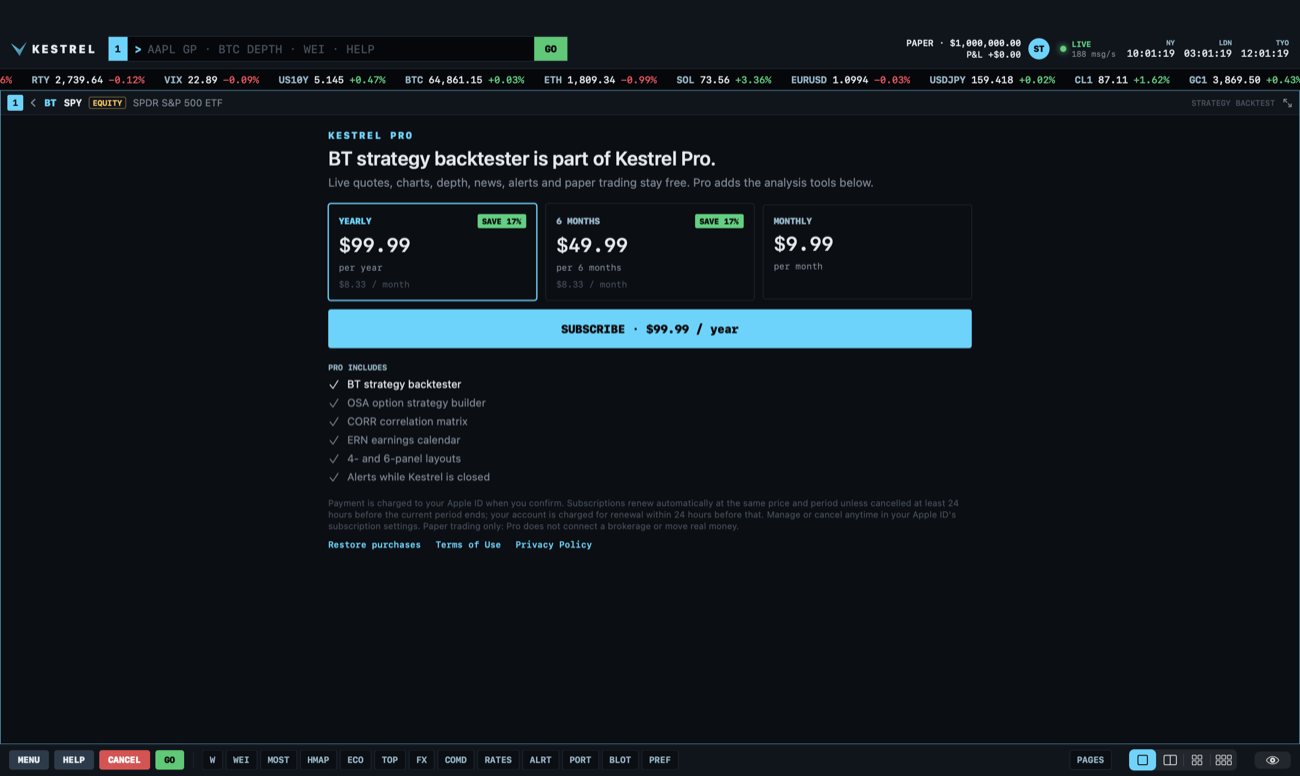
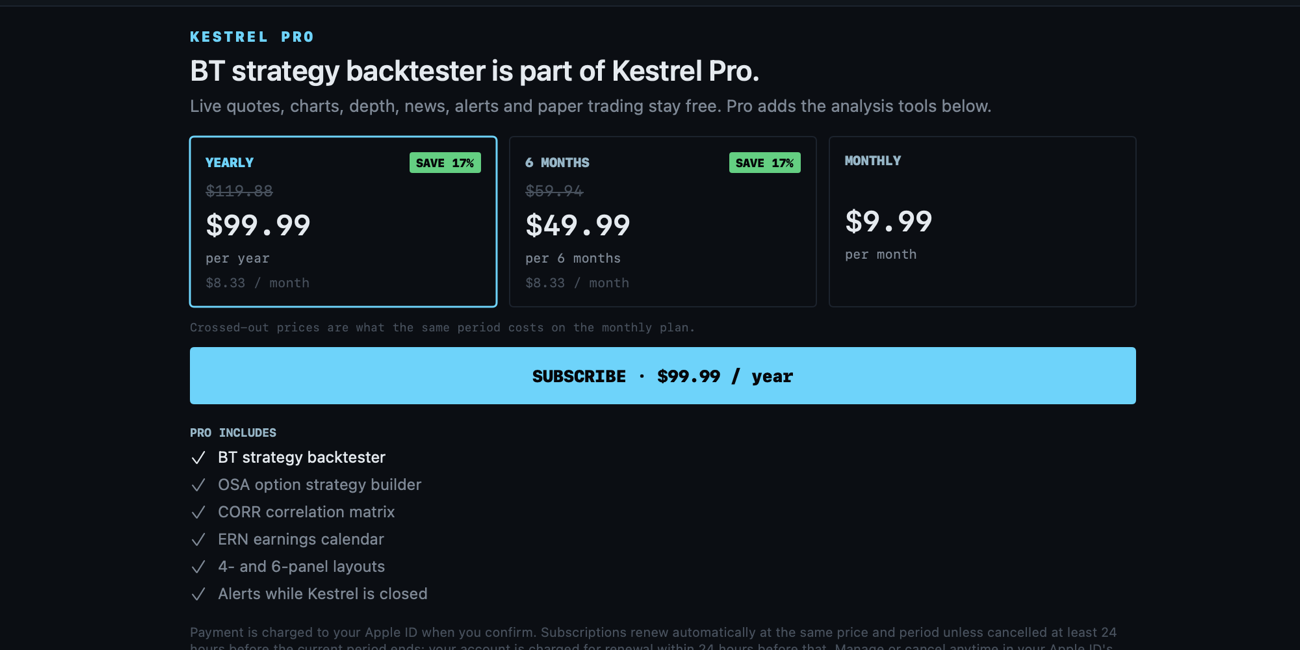
Show the plan prices as discounted from the monthly rate
6 months and yearly show a crossed-out reference price: what the same period
costs on the monthly plan ($59.94 and $119.88), never an invented "was"
price. Monthly has none. Equal-height plan cards and one note explaining the
reference.

Changed region(s): [[0.0, 0.0308, 1.0, 0.9231], [0.0, 0.9538, 1.0, 1.0]]

diff --git a/Kestrel/Views/Functions/PaywallView.swift b/Kestrel/Views/Functions/PaywallView.swift
@@ -51,9 +51,12 @@ struct PaywallView: View {
             if let e = store.loadError, store.products.isEmpty {
                 Text(e).font(.mono(11)).foregroundStyle(Theme.cancel)
             }
-            HStack(spacing: 10) {
+            HStack(alignment: .top, spacing: 10) {
                 ForEach(ProPlan.allCases.reversed(), id: \.self) { plan in planCard(plan, monthly: monthly) }
             }
+            .fixedSize(horizontal: false, vertical: true)   // equal-height cards
+            Text("Crossed-out prices are what the same period costs on the monthly plan.")
+                .font(.mono(9)).foregroundStyle(Theme.faint)
             Button {
                 Task { await store.purchase(selected, account: auth.current?.id) }
             } label: {
@@ -85,6 +88,13 @@ struct PaywallView: View {
                             .padding(.horizontal, 5).frame(height: 16).background(theme.up, in: .rect(cornerRadius: 2))
                     }
                 }
+                // Crossed-out price = the same period on the monthly plan (never an invented "was" price).
+                if let p, let m = monthly, let ref = plan.referencePrice(monthlyPrice: m) {
+                    Text(p.priceFormatStyle.format(ref)).font(.mono(12)).strikethrough().foregroundStyle(Theme.faint)
+                        .accessibilityLabel("\(p.priceFormatStyle.format(ref)) if paid monthly")
+                } else {
+                    Text(" ").font(.mono(12))
+                }
                 Text(p?.displayPrice ?? "—").font(.mono(22, .semibold)).foregroundStyle(Theme.text)
                 Text("per \(plan.periodLabel)").font(.mono(10)).foregroundStyle(Theme.dim)
                 if let p, plan != .monthly {
@@ -93,7 +103,7 @@ struct PaywallView: View {
                     Text(" ").font(.mono(10))
                 }
             }
-            .padding(12).frame(maxWidth: .infinity, alignment: .leading)
+            .padding(12).frame(maxWidth: .infinity, maxHeight: .infinity, alignment: .topLeading)
             .background(Theme.panel)
             .overlay(RoundedRectangle(cornerRadius: 3).stroke(on ? Theme.accent : Theme.rule, lineWidth: on ? 1.5 : 1))
             .contentShape(.rect)

diff --git a/KestrelCore/Sources/KestrelCore/Subscription.swift b/KestrelCore/Sources/KestrelCore/Subscription.swift
@@ -19,6 +19,12 @@ public enum ProPlan: String, CaseIterable, Sendable, Codable {
     /// Price per month, for comparing plans.
     public func perMonth(_ price: Decimal) -> Decimal { price / Decimal(months) }
 
+    /// The truthful "original" price shown crossed out: what the same span costs on the monthly
+    /// plan. nil for the monthly plan itself (there is no higher price it was discounted from).
+    public func referencePrice(monthlyPrice: Decimal) -> Decimal? {
+        self == .monthly || monthlyPrice <= 0 ? nil : monthlyPrice * Decimal(months)
+    }
+
     /// Saving against paying monthly for the same span (0.17 = 17%), or nil for the monthly plan.
     public func saving(price: Decimal, monthlyPrice: Decimal) -> Double? {
         guard self != .monthly, monthlyPrice > 0 else { return nil }

diff --git a/KestrelCore/Tests/KestrelCoreTests/KestrelCoreTests.swift b/KestrelCore/Tests/KestrelCoreTests/KestrelCoreTests.swift
@@ -1038,3 +1038,13 @@ private func Fmt(_ v: Double?) -> String { v.map { String(format: "%.1fB", $0 / 
         #expect(e == .pro(plan: .annual, expires: now.addingTimeInterval(300 * 86_400), willRenew: true))
     }
 }
+
+
+@Suite struct ReferencePriceTests {
+    @Test func crossedOutPriceIsTheMonthlyEquivalent() {
+        let m = Decimal(string: "9.99")!
+        #expect(ProPlan.halfYear.referencePrice(monthlyPrice: m) == Decimal(string: "59.94")!)
+        #expect(ProPlan.annual.referencePrice(monthlyPrice: m) == Decimal(string: "119.88")!)
+        #expect(ProPlan.monthly.referencePrice(monthlyPrice: m) == nil)
+    }
+}

diff --git a/README.md b/README.md
@@ -30,7 +30,7 @@ Sign in or create an account on the first screen. Accounts stay on the device (s
 
 ## Run
 Open `Kestrel.xcodeproj` in Xcode 26+, pick an **iPad simulator** or **My Mac**, then press ⌘R.
-Tests: `cd KestrelCore && swift test` (108 core tests) and `xcodebuild test -scheme Kestrel -destination 'platform=macOS'`
+Tests: `cd KestrelCore && swift test` (109 core tests) and `xcodebuild test -scheme Kestrel -destination 'platform=macOS'`
 (16 app tests on Mac, 19 on iPad: accounts, sessions, encryption at rest, StoreKit purchases, workspace routing, hotspots, pages, persistence regressions, formatting). CI runs both plus an iPad build
 (`.github/workflows/ci.yml`).
 

diff --git a/SECURITY.md b/SECURITY.md
@@ -12,7 +12,7 @@ N/A with the design they must follow once the planned backend exists (see the en
 ## Results
 
 Every ✅ row is backed by a test or a command whose output is quoted. Test counts at the time of review:
-**108 core tests** (`cd KestrelCore && swift test`) and **16 app tests** on macOS and **19** on the iPad simulator
+**109 core tests** (`cd KestrelCore && swift test`) and **16 app tests** on macOS and **19** on the iPad simulator
 (`xcodebuild test -scheme Kestrel`). All pass.
 
 | # | Item | Status | What was done and how it was verified |
